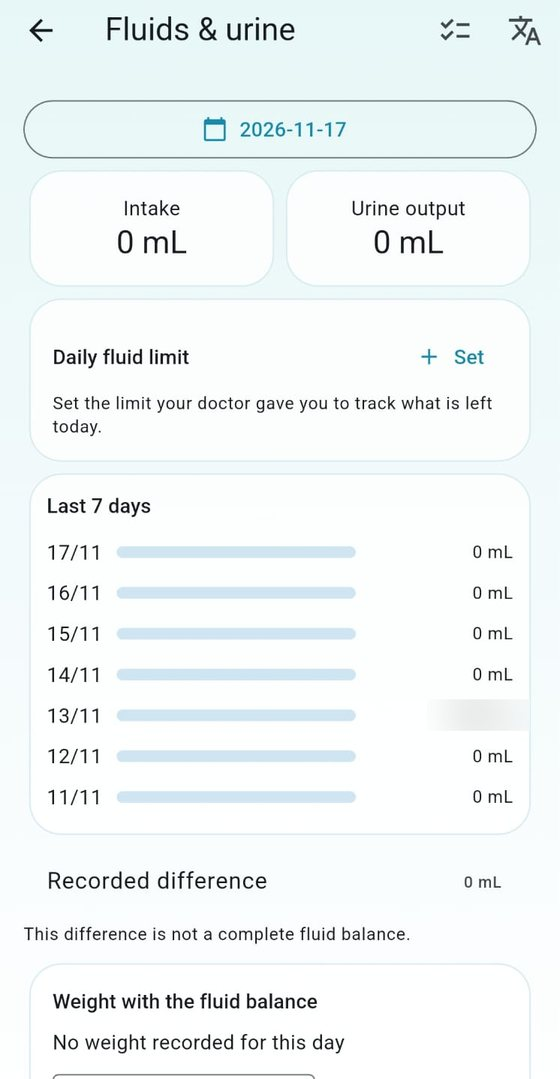
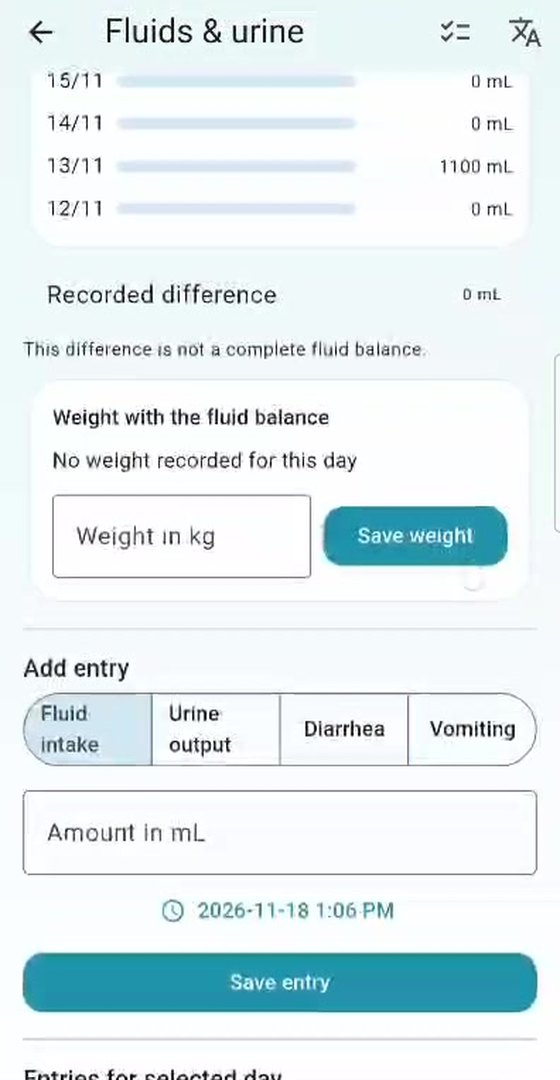
Add files via upload

diff --git a/index.html b/index.html
@@ -82,12 +82,28 @@ footer{border-top:1px solid var(--line);padding:30px 0 50px;color:var(--mut);fon
   <p class="sub"><span class="ar">كل ما تحتاجه للمتابعة اليومية، شاشة بعد شاشة.</span><span class="en">Everything for daily follow-up, screen by screen.</span></p>
   
 <article class="feat">
+  <div class="txt"><span class="badge"><svg class="ic" viewBox="0 0 24 24" aria-hidden="true"><path d="M8 11a3 3 0 1 0 0-6 3 3 0 0 0 0 6zm8 0a3 3 0 1 0 0-6 3 3 0 0 0 0 6zM2 19c0-3 3-5 6-5s6 2 6 5zm12 0c0-1.600-.5-2.900-1.400-4 .5-.1 1-.1 1.400-.1 3 0 6 1.500 6 4.100z" fill="currentColor"/></svg></span><h3><span class="ar">تسجيل الدخول أو الدخول كزائر</span><span class="en">Sign in or continue as a guest</span></h3><p><span class="ar">ادخل بالبريد وكلمة المرور أو بحساب Google، أو جرّب التطبيق كزائر بلا حساب. الدخول كزائر لا يوفّر نسخاً احتياطياً.</span><span class="en">Sign in with email and password or a Google account, or try the app as a guest with no account. Guest mode has no backup.</span></p></div>
+  <figure class="phone"><img src="shots/25-signin.jpg" loading="lazy" alt="Sign in or continue as a guest"></figure>
+</article>
+<article class="feat flip">
+  <div class="txt"><span class="badge"><svg class="ic" viewBox="0 0 24 24" aria-hidden="true"><path d="M4 4h7a3 3 0 0 1 1 .2A3 3 0 0 1 13 4h7v15h-7a2 2 0 0 0-1 .3 2 2 0 0 0-1-.3H4z" fill="currentColor"/></svg></span><h3><span class="ar">شاشة «قبل أن تبدأ»</span><span class="en">The “Before you start” screen</span></h3><p><span class="ar">تظهر عند أول استخدام بالشعار وبمبدّل لغة (العربية | English): التطبيق أداة تنظيم وليس جهازاً طبياً، ولا تعتمد عليه في الطوارئ، وبياناتك على هاتفك. لا تبدأ الاستخدام إلا بعد قراءتك لسياسة الخصوصية وموافقتك.</span><span class="en">Shown on first use with the logo and a language switch (Arabic | English): the app is an organising tool, not a medical device, it must not be relied on in an emergency, and your data stays on your phone. You start only after reading the privacy policy and agreeing.</span></p></div>
+  <figure class="phone"><img src="shots/24-consent.jpg" loading="lazy" alt="The “Before you start” screen"></figure>
+</article>
+<article class="feat">
   <div class="txt"><span class="badge"><svg class="ic" viewBox="0 0 24 24" aria-hidden="true"><path d="M7 2v2H5a2 2 0 0 0-2 2v13a2 2 0 0 0 2 2h14a2 2 0 0 0 2-2V6a2 2 0 0 0-2-2h-2V2h-2v2H9V2zM5 9h14v10H5z" fill="currentColor"/></svg></span><h3><span class="ar">شاشة اليوم: كل شيء في مكان واحد</span><span class="en">Today: everything in one place</span></h3><p><span class="ar">تفتح على شاشة اليوم فترى ملخص اليوم والدواء القادم والموعد القادم وأقسام التطبيق بنظرة واحدة، مع سطر لطيف يذكّر بأن التطبيق للتنظيم والمتابعة ولا يغني عن الطبيب.</span><span class="en">The app opens on Today: the day's summary, the next medicine, the next appointment and every section at a glance, with a gentle reminder that the app helps you organise and does not replace your doctor.</span></p></div>
   <figure class="phone"><img src="shots/01-today.jpg" loading="lazy" alt="Today: everything in one place"></figure>
 </article>
 <article class="feat flip">
   <div class="txt"><span class="badge"><svg class="ic" viewBox="0 0 24 24" aria-hidden="true"><path d="M4.2 13.8l9.6-9.6a4 4 0 0 1 5.6 5.6l-9.6 9.6a4 4 0 0 1-5.6-5.6zm2.1 0l3.9 3.9 5.6-5.6-3.9-3.9z" fill="currentColor"/></svg></span><h3><span class="ar">الأدوية والتذكيرات</span><span class="en">Medicines and reminders</span></h3><p><span class="ar">جدول أدوية اليوم مقسّم إلى صباح وظهر ومساء، تسجّل فيه أنك أخذت الجرعة، ويعرض الجرعات الفائتة. لا يغيّر التطبيق جرعة بنفسه.</span><span class="en">Today's medicine schedule split into morning and afternoon, where you mark each dose as taken and see missed doses. The app never changes a dose on its own.</span></p></div>
   <figure class="phone"><img src="shots/02-medications.jpg" loading="lazy" alt="Medicines and reminders"></figure>
+</article>
+<article class="feat">
+  <div class="txt"><span class="badge"><svg class="ic" viewBox="0 0 24 24" aria-hidden="true"><path d="M12 22a2 2 0 0 0 2-2h-4a2 2 0 0 0 2 2zm6-6V11a6 6 0 0 0-4-5.700V4a2 2 0 0 0-4 0v1.300A6 6 0 0 0 6 11v5l-2 2v1h16v-1z" fill="currentColor"/></svg></span><h3><span class="ar">تنبيه نفاد الدواء على شاشة اليوم</span><span class="en">Low-stock banner on Today</span></h3><p><span class="ar">بانر برتقالي أعلى شاشة اليوم يومض ببطء، يذكر الأدوية التي ستنفد خلال أسبوع وعدد الأيام المتبقية لكل منها، ويفتح صفحة الأدوية عند الضغط عليه. يتبع مفتاح «تنبيه قرب النفاد» في الإعدادات.</span><span class="en">A slowly blinking orange banner at the top of Today lists the medicines that will run out within a week and the days left for each, and opens the medicines page when tapped. It follows the “low-stock alert” switch in Settings.</span></p></div>
+  <figure class="phone"><img src="shots/23-banner.jpg" loading="lazy" alt="Low-stock banner on Today"></figure>
+</article>
+<article class="feat flip">
+  <div class="txt"><span class="badge"><svg class="ic" viewBox="0 0 24 24" aria-hidden="true"><path d="M7 2v2H5a2 2 0 0 0-2 2v13a2 2 0 0 0 2 2h14a2 2 0 0 0 2-2V6a2 2 0 0 0-2-2h-2V2h-2v2H9V2zM5 9h14v10H5z" fill="currentColor"/></svg></span><h3><span class="ar">الأيام السابقة وتسجيل جرعة منسية</span><span class="en">Previous days and forgotten doses</span></h3><p><span class="ar">تنقّل بين الأيام لترى ما أُخذ من جرعات، وسجّل جرعة نسيتها فيُحدَّث المخزون تبعاً لذلك. وإن غيّرت موعد دواء لاحقاً تبقى الجرعات المسجّلة سابقاً كما هي ولا يتأثر رصيد المخزون.</span><span class="en">Move between days to see which doses were taken, and record a dose you forgot so the stock is updated. If you change a medicine's time later, doses already recorded stay as they are and your stock balance is not affected.</span></p></div>
+  <figure class="phone"><img src="shots/26-yesterday.jpg" loading="lazy" alt="Previous days and forgotten doses"></figure>
 </article>
 <article class="feat">
   <div class="txt"><span class="badge"><svg class="ic" viewBox="0 0 24 24" aria-hidden="true"><path d="M4.2 13.8l9.6-9.6a4 4 0 0 1 5.6 5.6l-9.6 9.6a4 4 0 0 1-5.6-5.6zm2.1 0l3.9 3.9 5.6-5.6-3.9-3.9z" fill="currentColor"/></svg></span><h3><span class="ar">قائمة الأدوية والمخزون</span><span class="en">Medicine list and stock</span></h3><p><span class="ar">قائمة بكل دواء وحالته، مع متابعة المخزون. يظهر في أعلى شاشة اليوم بانر برتقالي يومض ببطء للأدوية التي ستنفد خلال أسبوع، وتنبيه قرب النفاد (يمكن إيقافه من الإعدادات)، وسجل لتغييرات الجرعات.</span><span class="en">A list of every medicine and its status, with stock tracking. A slowly blinking orange banner at the top of the Today screen lists medicines that will run out within a week, plus a low-stock alert (it can be switched off in Settings) and a log of dose changes.</span></p></div>
@@ -98,24 +114,40 @@ footer{border-top:1px solid var(--line);padding:30px 0 50px;color:var(--mut);fon
   <figure class="phone"><img src="shots/03-scan.jpg" loading="lazy" alt="Scan the medicine box barcode"></figure>
 </article>
 <article class="feat">
+  <div class="txt"><span class="badge"><svg class="ic" viewBox="0 0 24 24" aria-hidden="true"><path d="M4.2 13.8l9.6-9.6a4 4 0 0 1 5.6 5.6l-9.6 9.6a4 4 0 0 1-5.6-5.6zm2.1 0l3.9 3.9 5.6-5.6-3.9-3.9z" fill="currentColor"/></svg></span><h3><span class="ar">المخزون والسجل</span><span class="en">Stock and history</span></h3><p><span class="ar">دفعات الأدوية وتواريخ انتهائها، وحركة المخزون (استلام وجرعات مؤكدة وتصحيحات)، وقائمة الصيدلية للأدوية التي تقارب النفاد لتجهّزها وترسلها عبر واتساب.</span><span class="en">Medication batches with expiry dates, stock movements (receipts, confirmed doses and corrections) and a pharmacy list of medicines running low, ready to send via WhatsApp.</span></p></div>
+  <figure class="phone"><img src="shots/16-stock.jpg" loading="lazy" alt="Stock and history"></figure>
+</article>
+<article class="feat flip">
+  <div class="txt"><span class="badge"><svg class="ic" viewBox="0 0 24 24" aria-hidden="true"><path d="M4.2 13.8l9.6-9.6a4 4 0 0 1 5.6 5.6l-9.6 9.6a4 4 0 0 1-5.6-5.6zm2.1 0l3.9 3.9 5.6-5.6-3.9-3.9z" fill="currentColor"/></svg></span><h3><span class="ar">سجل تغييرات الأدوية</span><span class="en">Medication changes log</span></h3><p><span class="ar">كل إيقاف أو استئناف أو تغيير في الجرعة أو الموعد يُسجَّل بتاريخه، بنسخة مختصرة (آخر تغيير لكل دواء) أو مفصلة، وتصدّره PDF لتعرضه على الطبيب.</span><span class="en">Every stop, resume, dose or time change is recorded with its date, in a brief version (latest change of each medicine) or a detailed one, and you can export it as a PDF for your doctor.</span></p></div>
+  <figure class="phone"><img src="shots/17-changes-log.jpg" loading="lazy" alt="Medication changes log"></figure>
+</article>
+<article class="feat">
+  <div class="txt"><span class="badge"><svg class="ic" viewBox="0 0 24 24" aria-hidden="true"><path d="M12 8a4 4 0 1 0 0 8 4 4 0 0 0 0-8zm9 5v-2l-2.100-.7a7 7 0 0 0-.6-1.400l1-2-1.400-1.400-2 1a7 7 0 0 0-1.400-.6L14 3h-2l-.7 2.100a7 7 0 0 0-1.400.6l-2-1-1.400 1.400 1 2a7 7 0 0 0-.6 1.400L3 11v2l2.100.7a7 7 0 0 0 .6 1.400l-1 2 1.400 1.400 2-1a7 7 0 0 0 1.400.6L12 21h2l.7-2.100a7 7 0 0 0 1.400-.6l2 1 1.400-1.400-1-2a7 7 0 0 0 .6-1.400z" fill="currentColor"/></svg></span><h3><span class="ar">إعدادات الجرعة</span><span class="en">Dose settings</span></h3><p><span class="ar">حدّد لكل مريض أبكر وقت يمكن فيه الضغط على «تم أخذها»، من وقت الجرعة نفسه حتى ساعة قبله أو بلا قيد. قبل ذلك يظهر تنبيه ولا تُسجَّل الجرعة، حتى لا تُسجَّل بالخطأ قبل أوانها.</span><span class="en">Choose for each patient the earliest time “Taken” can be pressed, from the dose time itself up to an hour before, or no restriction. Before that a notice appears and the dose is not recorded, so a dose is not logged by mistake too early.</span></p></div>
+  <figure class="phone"><img src="shots/18-dose-settings.jpg" loading="lazy" alt="Dose settings"></figure>
+</article>
+<article class="feat flip">
   <div class="txt"><span class="badge"><svg class="ic" viewBox="0 0 24 24" aria-hidden="true"><path d="M9 3h6v2h-1v5l5 8a2 2 0 0 1-1.7 3H6.7A2 2 0 0 1 5 18l5-8V5H9z" fill="currentColor"/></svg></span><h3><span class="ar">التحاليل ونتائجها</span><span class="en">Lab results</span></h3><p><span class="ar">سجّل التحاليل بتواريخها ووحداتها وتابع تغيّر القيم مع الوقت، أو استورد التقرير من ملف PDF. يعرض التطبيق القيم ولا يحكم بنفسه أن نتيجة ما خطيرة.</span><span class="en">Record lab tests with dates and units and follow how values change over time, or import a report from a PDF file. The app shows the values; it never decides by itself that a result is critical.</span></p></div>
   <figure class="phone"><img src="shots/04-labs.jpg" loading="lazy" alt="Lab results"></figure>
 </article>
-<article class="feat flip">
+<article class="feat">
   <div class="txt"><span class="badge"><svg class="ic" viewBox="0 0 24 24" aria-hidden="true"><path d="M12 2s7 7.5 7 12a7 7 0 0 1-14 0c0-4.5 7-12 7-12z" fill="currentColor"/></svg></span><h3><span class="ar">ميزان السوائل والوزن اليومي</span><span class="en">Fluid balance and daily weight</span></h3><p><span class="ar">سجّل ما شربته وما خرج من بول، مع خيار الإسهال أو الترجيع بكمية تقديرية، وسجّل وزنك بجانبها. ينبّهك التطبيق إذا زاد الوزن زيادة غير معتادة، وتقدر تحدد أنت حد الزيادة بحسب توجيه طبيبك.</span><span class="en">Log what you drink and the urine passed, with diarrhoea or vomiting as an estimated amount, and your weight next to it. The app warns you about an unusual weight rise, and you can set the limit according to your doctor's advice.</span></p></div>
   <figure class="phone"><img src="shots/05-fluids.jpg" loading="lazy" alt="Fluid balance and daily weight"></figure>
 </article>
-<article class="feat">
+<article class="feat flip">
   <div class="txt"><span class="badge"><svg class="ic" viewBox="0 0 24 24" aria-hidden="true"><path d="M7 2v2H5a2 2 0 0 0-2 2v13a2 2 0 0 0 2 2h14a2 2 0 0 0 2-2V6a2 2 0 0 0-2-2h-2V2h-2v2H9V2zm3 10l2.5 2.5L17 10l1.4 1.4-5.9 5.9-3.9-3.9z" fill="currentColor"/></svg></span><h3><span class="ar">المواعيد</span><span class="en">Appointments</span></h3><p><span class="ar">نظّم مواعيد الأطباء مع بيانات المنشأة الطبية، وتلقَّ تذكيراً قبل الموعد، وتابع زيارات المستشفى والإقامة فيه.</span><span class="en">Organise doctor appointments with the facility details, get a reminder before each one, and follow hospital visits and stays.</span></p></div>
   <figure class="phone"><img src="shots/07-appointments.jpg" loading="lazy" alt="Appointments"></figure>
 </article>
-<article class="feat flip">
+<article class="feat">
   <div class="txt"><span class="badge"><svg class="ic" viewBox="0 0 24 24" aria-hidden="true"><path d="M5 3h14a2 2 0 0 1 2 2v14a2 2 0 0 1-2 2H5a2 2 0 0 1-2-2V5a2 2 0 0 1 2-2zm5 4v3H7v4h3v3h4v-3h3v-4h-3V7z" fill="currentColor"/></svg></span><h3><span class="ar">المستشفيات</span><span class="en">Hospitals</span></h3><p><span class="ar">قائمة بمستشفياتك مع زياراتها ومواعيدها، ودليل مستشفيات الإمارات للبحث بالإمارة والاسم. الدليل اقتراحات مبدئية وليس دليلاً طبياً موثّقاً، فتأكد من التفاصيل قبل الزيارة.</span><span class="en">A list of your hospitals with their visits and appointments, and a UAE hospital directory you can search by emirate and name. The directory is a starter list, not a verified medical directory, so confirm details before visiting.</span></p></div>
   <figure class="phone"><img src="shots/15-hospitals.jpg" loading="lazy" alt="Hospitals"></figure>
 </article>
-<article class="feat">
+<article class="feat flip">
   <div class="txt"><span class="badge"><svg class="ic" viewBox="0 0 24 24" aria-hidden="true"><path d="M4 20V4h2v14h14v2zm4-4v-6h3v6zm5 0V7h3v9zm5 0v-3h3v3z" fill="currentColor"/></svg></span><h3><span class="ar">التقارير وتصديرها PDF</span><span class="en">Reports and PDF export</span></h3><p><span class="ar">تقرير للطبيب في ملف PDF واحد يجمع التحاليل والأدوية والغسيل والمواعيد، وتقارير للتحاليل والالتزام بالأدوية والمخزون والمصاريف.</span><span class="en">A doctor visit report in one PDF with labs, medicines, dialysis and appointments, plus reports on lab results, medicine adherence, stock and expenses.</span></p></div>
   <figure class="phone"><img src="shots/08-reports.jpg" loading="lazy" alt="Reports and PDF export"></figure>
+</article>
+<article class="feat">
+  <div class="txt"><span class="badge"><svg class="ic" viewBox="0 0 24 24" aria-hidden="true"><path d="M4 20V4h2v14h14v2zm4-4v-6h3v6zm5 0V7h3v9zm5 0v-3h3v3z" fill="currentColor"/></svg></span><h3><span class="ar">المصاريف الطبية</span><span class="en">Medical expenses</span></h3><p><span class="ar">سجّل تكلفة الزيارات والتحاليل والأدوية والخدمات بالعملة التي تختارها، وفلتر بالفترة والتصنيف والمستشفى، وتظهر لك الزيارات والتحاليل التي لم تُسجَّل تكلفتها بعد.</span><span class="en">Record the cost of visits, lab tests, medicines and services in the currency you choose, filter by period, category and hospital, and see the visits and tests that still have no cost.</span></p></div>
+  <figure class="phone"><img src="shots/19-expenses.jpg" loading="lazy" alt="Medical expenses"></figure>
 </article>
 <article class="feat flip">
   <div class="txt"><span class="badge"><svg class="ic" viewBox="0 0 24 24" aria-hidden="true"><path d="M9 3C5 3 3 7 3 11s2 9 6 9c2 0 3-1.500 3-3 0 1.500 1 3 3 3 4 0 6-5 6-9s-2-8-6-8c-2 0-3 1-3 2.500C12 4 11 3 9 3z" fill="currentColor"/></svg></span><h3><span class="ar">أدوات خاصة بالكلى</span><span class="en">Kidney tools</span></h3><p><span class="ar">جلسات الغسيل بسجلها وأوزانها، وميزان السوائل والبول، وفترات الدخول للمستشفى، والمصاريف الطبية في مكان واحد.</span><span class="en">Dialysis sessions with their log and weights, fluids and urine, hospital stays and medical expenses in one place.</span></p></div>
@@ -138,6 +170,18 @@ footer{border-top:1px solid var(--line);padding:30px 0 50px;color:var(--mut);fon
   <figure class="phone"><img src="shots/12-settings.jpg" loading="lazy" alt="Language, appearance and settings"></figure>
 </article>
 <article class="feat">
+  <div class="txt"><span class="badge"><svg class="ic" viewBox="0 0 24 24" aria-hidden="true"><path d="M12 8a4 4 0 1 0 0 8 4 4 0 0 0 0-8zm9 5v-2l-2.100-.7a7 7 0 0 0-.6-1.400l1-2-1.400-1.400-2 1a7 7 0 0 0-1.400-.6L14 3h-2l-.7 2.100a7 7 0 0 0-1.400.6l-2-1-1.400 1.400 1 2a7 7 0 0 0-.6 1.400L3 11v2l2.100.7a7 7 0 0 0 .6 1.400l-1 2 1.400 1.400 2-1a7 7 0 0 0 1.400.6L12 21h2l.7-2.100a7 7 0 0 0 1.400-.6l2 1 1.400-1.400-1-2a7 7 0 0 0 .6-1.400z" fill="currentColor"/></svg></span><h3><span class="ar">الخصوصية والأمان والملاحظات</span><span class="en">Privacy, security and feedback</span></h3><p><span class="ar">رمز PIN لحماية ملفات الأطفال، وسياسة الخصوصية داخل التطبيق، وحذف الحساب وكل البيانات نهائياً، وزر لإرسال ملاحظاتك أو الإبلاغ عن مشكلة.</span><span class="en">A PIN to protect children's files, the privacy policy inside the app, permanent deletion of your account and all data, and a button to send feedback or report a problem.</span></p></div>
+  <figure class="phone"><img src="shots/20-privacy.jpg" loading="lazy" alt="Privacy, security and feedback"></figure>
+</article>
+<article class="feat flip">
+  <div class="txt"><span class="badge"><svg class="ic" viewBox="0 0 24 24" aria-hidden="true"><path d="M12 8a4 4 0 1 0 0 8 4 4 0 0 0 0-8zm9 5v-2l-2.100-.7a7 7 0 0 0-.6-1.400l1-2-1.400-1.400-2 1a7 7 0 0 0-1.400-.6L14 3h-2l-.7 2.100a7 7 0 0 0-1.400.6l-2-1-1.400 1.400 1 2a7 7 0 0 0-.6 1.400L3 11v2l2.100.7a7 7 0 0 0 .6 1.400l-1 2 1.400 1.400 2-1a7 7 0 0 0 1.400.6L12 21h2l.7-2.100a7 7 0 0 0 1.400-.6l2 1 1.400-1.400-1-2a7 7 0 0 0 .6-1.400z" fill="currentColor"/></svg></span><h3><span class="ar">حماية ملفات الأطفال برمز PIN</span><span class="en">Protect children's files with a PIN</span></h3><p><span class="ar">اختر أي الملفات يتطلب رمزاً قبل فتحه. يُخزَّن الرمز على هذا الجهاز فقط، وإن نسيته تستعيده بحساب Google.</span><span class="en">Choose which files need a PIN before opening. The PIN is stored on this device only, and if you forget it you can recover it with Google.</span></p></div>
+  <figure class="phone"><img src="shots/22-parent-pin.jpg" loading="lazy" alt="Protect children&#x27;s files with a PIN"></figure>
+</article>
+<article class="feat">
+  <div class="txt"><span class="badge"><svg class="ic" viewBox="0 0 24 24" aria-hidden="true"><path d="M12 8a4 4 0 1 0 0 8 4 4 0 0 0 0-8zm9 5v-2l-2.100-.7a7 7 0 0 0-.6-1.400l1-2-1.400-1.400-2 1a7 7 0 0 0-1.400-.6L14 3h-2l-.7 2.100a7 7 0 0 0-1.400.6l-2-1-1.400 1.400 1 2a7 7 0 0 0-.6 1.400L3 11v2l2.100.7a7 7 0 0 0 .6 1.400l-1 2 1.400 1.400 2-1a7 7 0 0 0 1.400.6L12 21h2l.7-2.100a7 7 0 0 0 1.400-.6l2 1 1.400-1.400-1-2a7 7 0 0 0 .6-1.400z" fill="currentColor"/></svg></span><h3><span class="ar">سياسة الخصوصية بالعربية والإنجليزية</span><span class="en">Privacy policy in Arabic and English</span></h3><p><span class="ar">نص السياسة كاملاً داخل التطبيق وبتاريخ آخر تحديث: ما البيانات التي يتعامل معها، وأين تُحفظ (على هاتفك)، وما الأذونات المطلوبة.</span><span class="en">The full policy inside the app with its last-updated date: what data it handles, where it is kept (on your phone) and which permissions it asks for.</span></p></div>
+  <figure class="phone"><img src="shots/21-policy.jpg" loading="lazy" alt="Privacy policy in Arabic and English"></figure>
+</article>
+<article class="feat flip">
   <div class="txt"><span class="badge"><svg class="ic" viewBox="0 0 24 24" aria-hidden="true"><path d="M4 4h7a3 3 0 0 1 1 .2A3 3 0 0 1 13 4h7v15h-7a2 2 0 0 0-1 .3 2 2 0 0 0-1-.3H4z" fill="currentColor"/></svg></span><h3><span class="ar">دليل الاستخدام داخل التطبيق</span><span class="en">In-app guide</span></h3><p><span class="ar">شرح مبسّط لكل قسم، مع قسم عن الخصوصية وكيفية حذف حسابك وبياناتك.</span><span class="en">A simple explanation of every section, plus how privacy works and how to delete your account and data.</span></p></div>
   <figure class="phone"><img src="shots/11-guide.jpg" loading="lazy" alt="In-app guide"></figure>
 </article>
